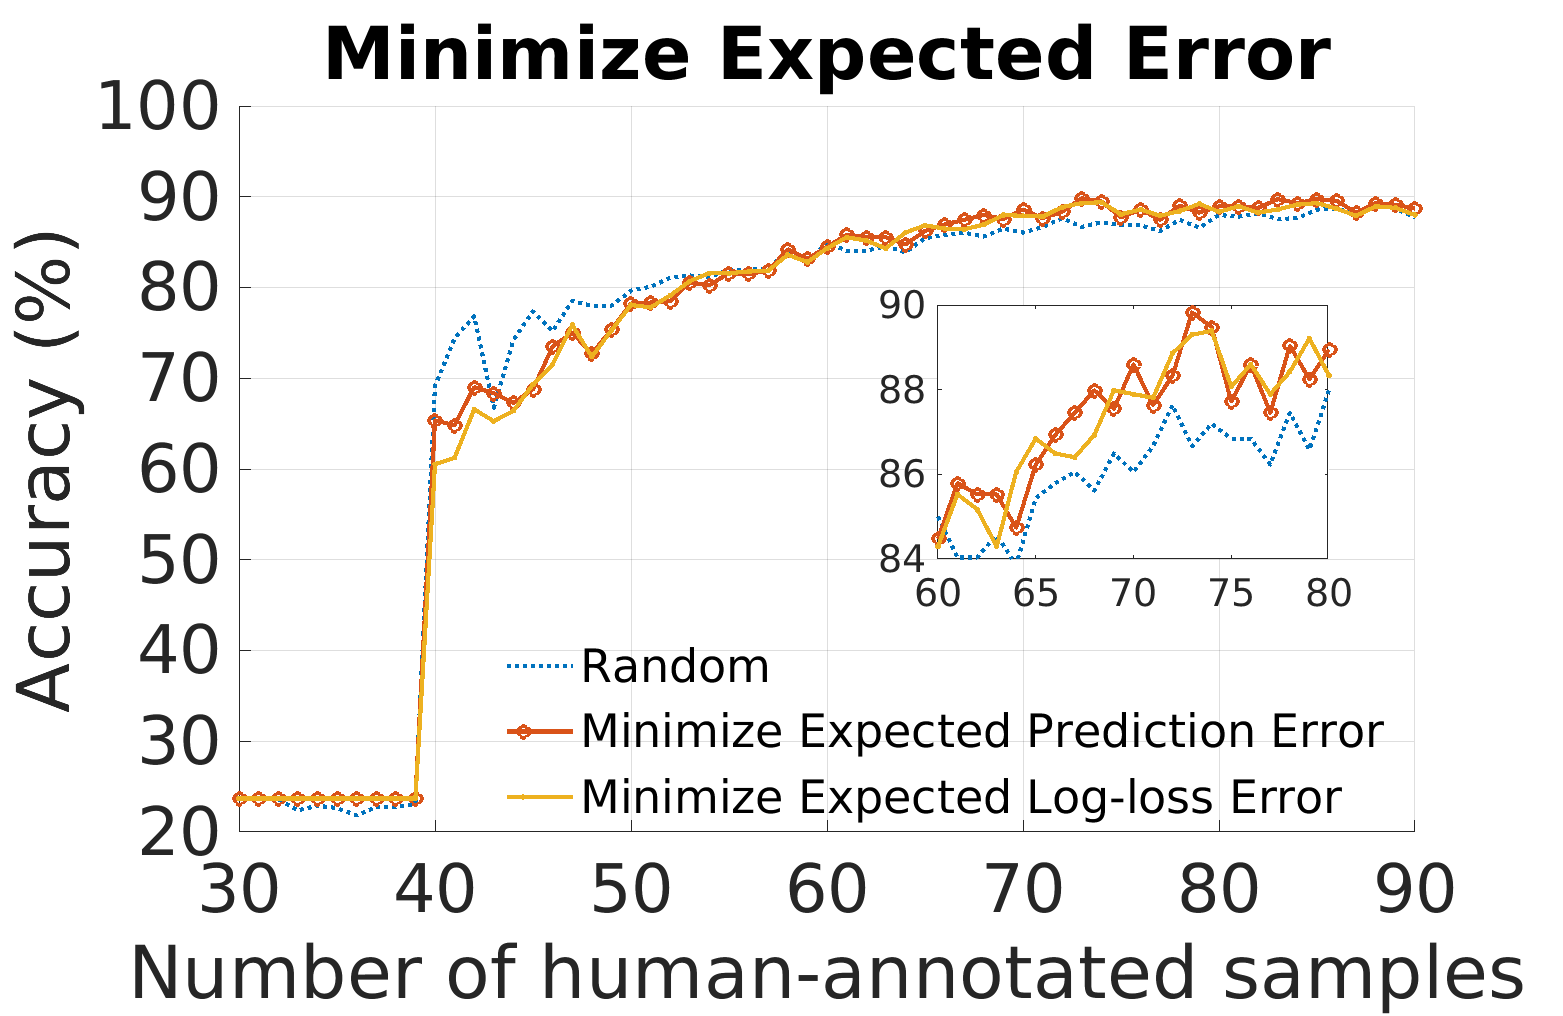
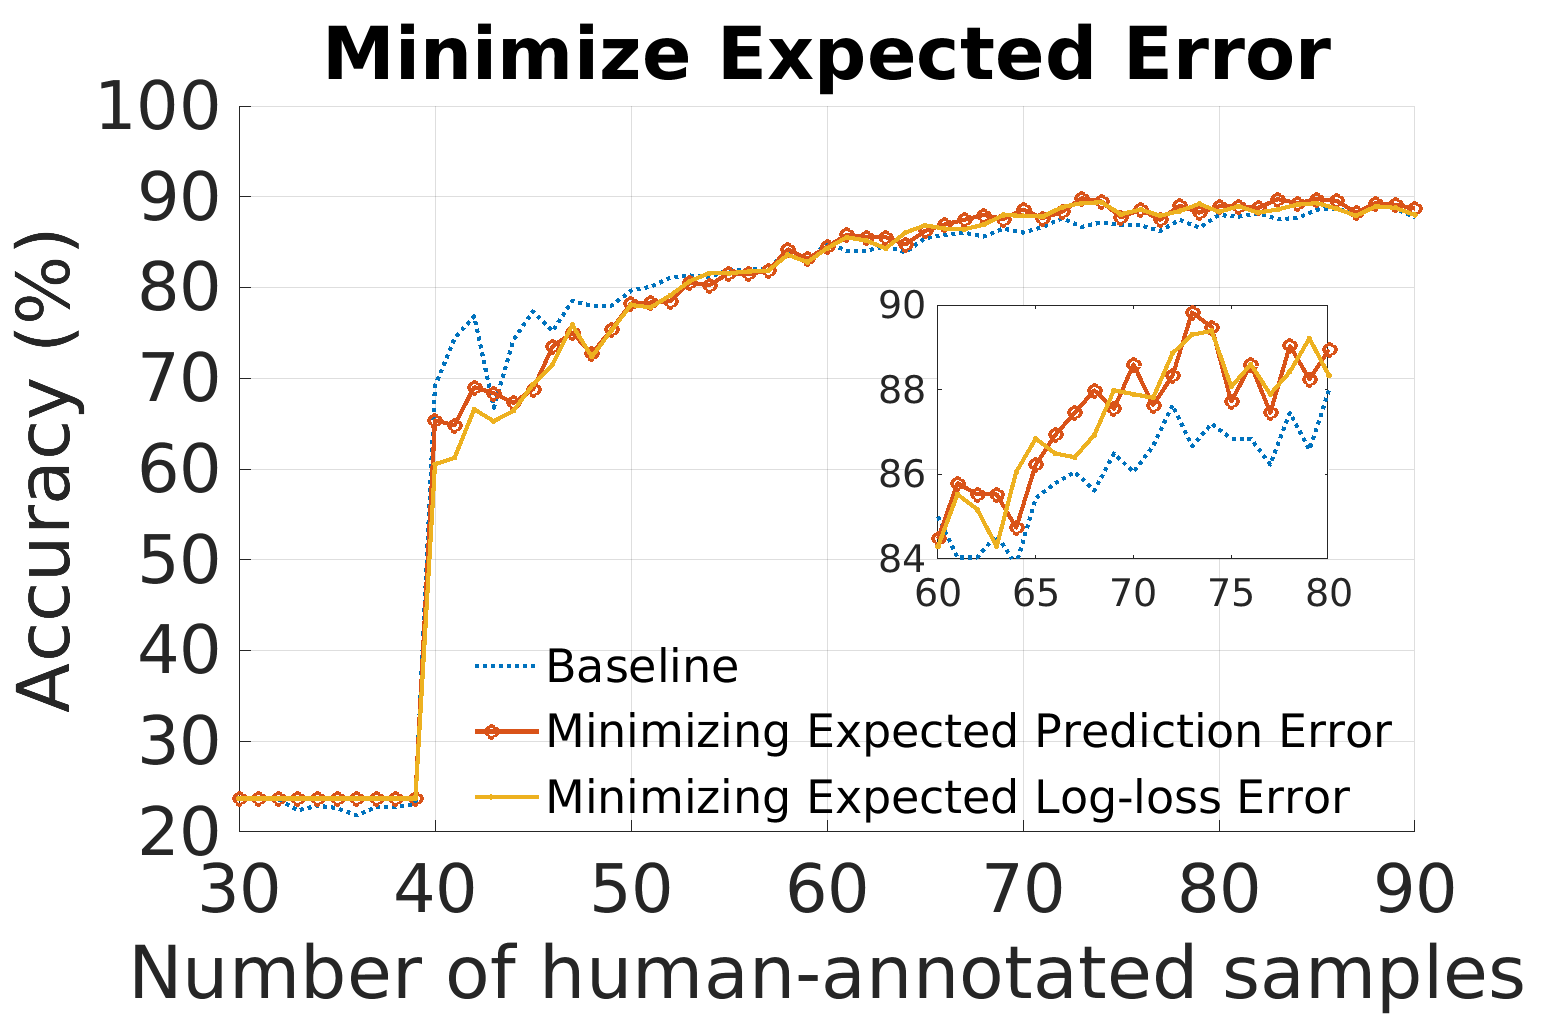
Self Train Done

Changed region(s): [[0.3071, 0.7018, 0.8906, 0.8238], [0.3378, 0.6407, 0.4914, 0.6713]]

diff --git a/Matlab/self_train.m b/Matlab/self_train.m
@@ -1,55 +1,75 @@
-% Self Train
+% compare
 
 clear, clc
 
-line_spec = {'.-', 'o-', ':', '-.'};
+line_spec = {':', 'o-', '.-', '-.', '^-'};
 
 % al = Active Learning
 
 al_strategies = struct( ...
-    'batch_random_unfair', 'Baseline', ...
-    'selfTrain_leastConfident_temp', 'Self Train: Least Confident', ...
-    'selfTrain_entropy_temp', 'Self Train: Entropy');
+    'random', 'Baseline', ...
+    'selfTrain_random', 'Random', ...
+    'selfTrain_confident', 'Maximum Confident', ...
+    'selfTrain_entropy', 'Mininum Entropy');
 
-data_file_prefix = '../Save/1/';
-data_file_suffix = '_result.csv';
+data_file_prefix = '../Python/Result/';
+data_file_suffix = '.csv';
 
 
 fields = fieldnames(al_strategies);
 
 my_legend = {};
+all_data = [];
 
-figure(1), clf, hold on
-set(gcf, 'position', [500, 500, 1000, 700])
+
 for k = 1:numel(fields)
     
     filename = fullfile(data_file_prefix, strcat(fields{k}, data_file_suffix));
     data = readmatrix(filename);
+
+    mean_data = mean(data);
     
-    if strcmp(fields{k}, 'batch_random_unfair') == 1
-        data = data';
-        data = mean(data);
-    end
-    
-%     data = mean(data);
-    
+    all_data = [all_data; mean_data];
     my_legend = [my_legend, al_strategies.(fields{k})];
-    
-    if strcmp(fields{k}, 'batch_random_unfair') == 1
-        plot([11:90], data*100, line_spec{k}, 'linewidth', 3)
-    else
-        plot([11:90], data(11:end)*100, line_spec{k}, 'linewidth', 3)
-    end
-    
+     
 end
 
-legend(my_legend, 'location', 'southeast', 'fontsize', 22)
+figure(1), clf, hold on
+set(gcf, 'position', [500, 500, 1000, 650])
+
+x = 11:90;
+
+for i_row = 1:size(all_data, 1)
+    data = all_data(i_row, 11:end);
+    plot(x, data *100, line_spec{i_row}, 'linewidth', 3)
+end
+
+legend(my_legend, 'location', 'southeast', 'fontsize', 24)
+
+% h_legend = columnlegend(1, my_legend, 'location', 'northwest', 'fontsize', 22);
+% h_legend.Position = [0.3, 0.18, 0.6, 0.2];
+
 set(gca, 'fontsize', 32, 'ygrid', 'on', 'xgrid', 'on')
-xlim([0, 90])
-ylim([20, 100])
-xlabel('Number of labeled samples')
+xlim([30, 90])
+ylim([20, 90])
+xlabel('Number of human-annotated samples')
 ylabel('Accuracy (%)')
 xticks(10:10:90)
 yticks(20:10:100)
+title('Self Training')
+% 
+% axes('Position', [0.6, 0.45, 0.25, 0.25])
+% box on, hold on
+% 
+% for i_row = 1:size(all_data, 1)
+%     data = all_data(i_row, 11:end);
+%     indexOfInterest = (x >= 60) & (x <= 80);
+%     plot(x(indexOfInterest), 100 * data(indexOfInterest), line_spec{i_row}, 'linewidth', 2)
+% end
+% set(gca, 'fontsize', 18)
+% xticks([60:5:80])
+% ylim([84, 90])
+% yticks([84:2:90])
+
 hold off
 saveas(gcf, './Image/self_train.png')

diff --git a/Python/mixture_model.py b/Python/mixture_model.py
@@ -21,20 +21,14 @@ from Query_Strategy import query_index
 
 # ------ Configurations ------
 
-# self_train
+# mixture model
 
 
 # take in as arguments
 # query_strategy = "random"
 
-# do not change
-# n_sample_arr = list(range(3, 91))
-
 # number of runs for each reduced number of samples
-n_run = 10
-
-# optuna number of trails
-# n_trial = 5
+n_run = 1
 
 # data directory
 dire = "../data/PAW FTIR data/"
@@ -55,7 +49,7 @@ optuna.logging.set_verbosity(optuna.logging.FATAL)
 
 help_message = "Self Training. " \
     "Supported Methods:\n" \
-    "Self Training: [random|confident|entropy]"
+    "Mixture Model: full"
 parser = argparse.ArgumentParser(description="Active Learning Strategies", formatter_class=RawTextHelpFormatter)
 parser.add_argument("sampling_method", type=str, help=help_message)
 args = parser.parse_args()
@@ -132,6 +126,7 @@ def run_cv(train_set, target):
             unqueried_index_set_copy = deepcopy(unqueried_index_set)
             target_copy = deepcopy(target)
 
+            # remove this part
             while len(unqueried_index_set_copy) > 0 and len(queried_index_set_copy) <= end_n_sample:
 
                 train_data = lgb.Dataset(train_set.iloc[list(queried_index_set_copy)], label=target_copy[list(queried_index_set_copy)])

diff --git a/Matlab/minimize_expected_error.m b/Matlab/minimize_expected_error.m
@@ -7,9 +7,10 @@ line_spec = {':', 'o-', '.-', '-.', '^-'};
 % al = Active Learning
 
 al_strategies = struct( ...
-    'random', 'Random', ...
-    'minimize_leastConfident', 'Minimize Expected Prediction Error', ...
-    'minimize_entropy', 'Minimize Expected Log-loss Error');
+    'random', 'Baseline', ...
+    'minimize_leastConfident', 'Minimizing Expected Prediction Error', ...
+    'minimize_entropy', 'Minimizing Expected Log-loss Error');
+
 data_file_prefix = '../Python/Result/';
 data_file_suffix = '.csv';
 
@@ -25,7 +26,8 @@ for k = 1:numel(fields)
     filename = fullfile(data_file_prefix, strcat(fields{k}, data_file_suffix));
     data = readmatrix(filename);
 
-    mean_data = mean(data);
+    mean_data = mean(data)
+    
     
     all_data = [all_data; mean_data];
     my_legend = [my_legend, al_strategies.(fields{k})];
@@ -43,7 +45,7 @@ for i_row = 1:size(all_data, 1)
 end
 
 h_legend = columnlegend(1, my_legend, 'location', 'northwest', 'fontsize', 22);
-h_legend.Position = [0.32, 0.18, 0.6, 0.2];
+h_legend.Position = [0.3, 0.18, 0.6, 0.2];
 
 set(gca, 'fontsize', 32, 'ygrid', 'on', 'xgrid', 'on')
 xlim([30, 90])

diff --git a/Matlab/density.m b/Matlab/density.m
@@ -7,7 +7,7 @@ line_spec = {':', 'o-', '.-', '-.', '^-', 'x:', 's-.', 'd-', '^:', 'v-.'};
 % al = Active Learning
 
 al_strategies = struct( ...
-    'random', 'Random', ...
+    'random', 'Baseline', ...
     'density_leastConfident_cosine_1', 'Least Confident, \beta:1', ...
     'density_leastConfident_cosine_2', 'Least Confident, \beta:2', ...
     'density_entropy_cosine_1', 'Entropy, \beta:1', ...

diff --git a/Python/Query_Strategy.py b/Python/Query_Strategy.py
@@ -206,6 +206,7 @@ def query_index(model, train_set, queried_index_set, unqueried_index_set, query_
         sample_index = unqueried_index_list[sample_index]
         return sample_index
     elif query_strategy.lower().startswith("selftrain"):
+        # self training
         sub_fields = query_strategy.lower().split("_")
         base_query_method = sub_fields[1]
 

diff --git a/Matlab/uncertainty.m b/Matlab/uncertainty.m
@@ -7,7 +7,7 @@ line_spec = {':', 'o-', '.-', '-.', '^-'};
 % al = Active Learning
 
 al_strategies = struct( ...
-    'random', 'Random', ...
+    'random', 'Baseline', ...
     'uncertainty_leastConfident', 'Least Confident', ...
     'uncertainty_entropy', 'Entropy');
 
